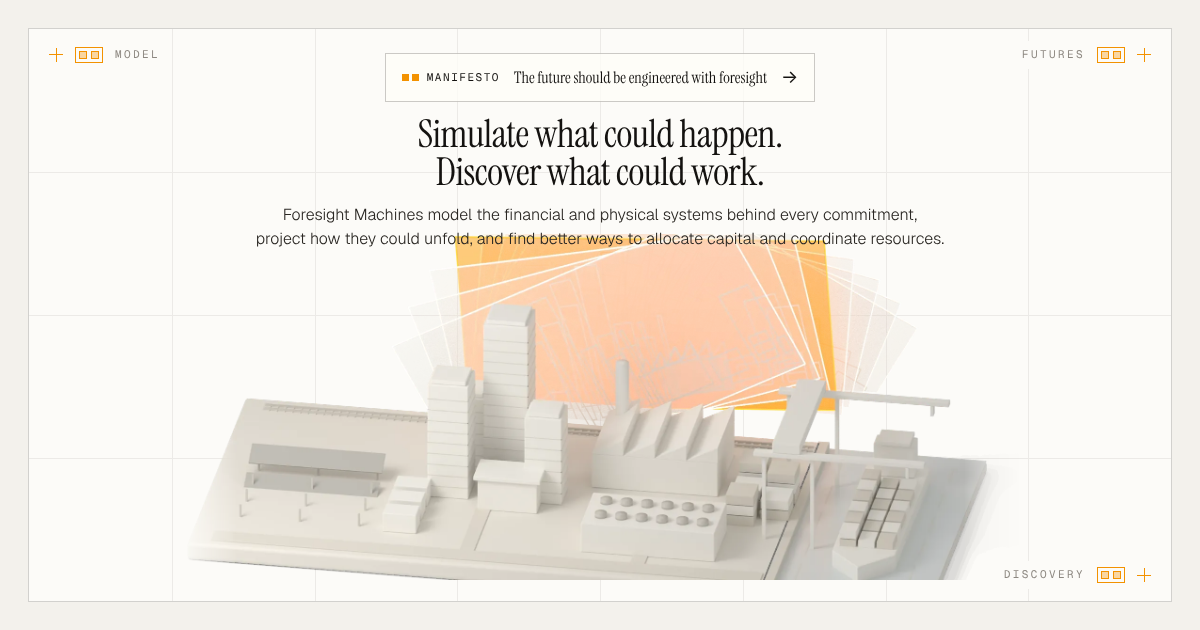
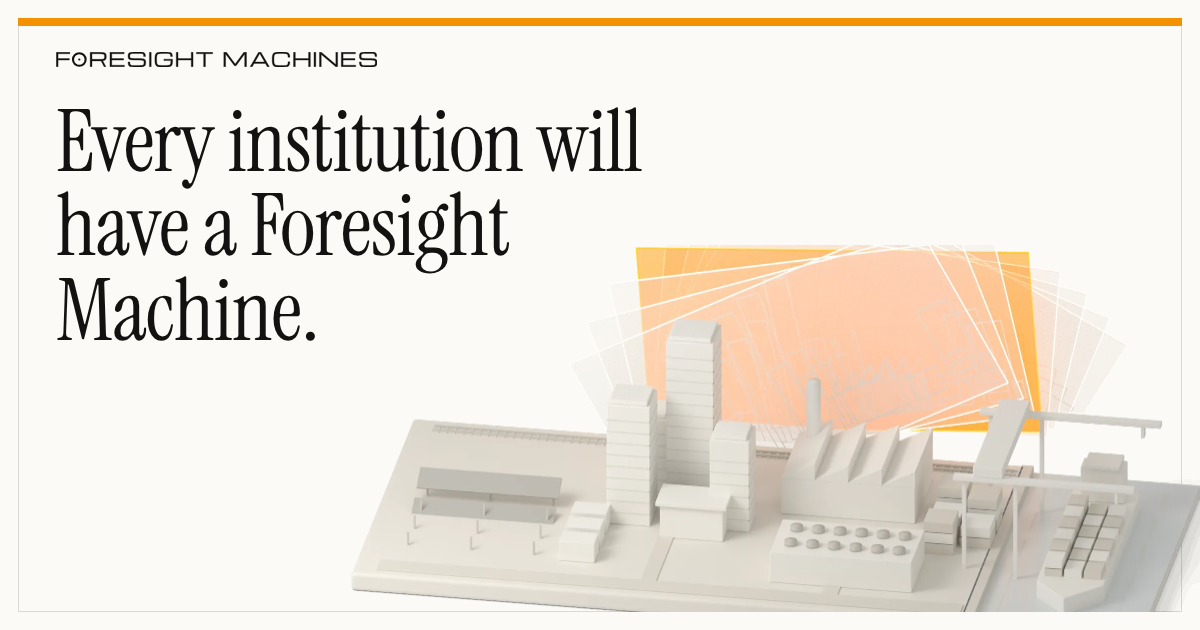
A quieter, more premium page: decoration out, an editorial hero, one idea per section
Decoration: the orange section chips become plain labels; the section
frames and their crosses go; the hero's corner labels carry values
(model v15, futures 1,000, discovery 312) and lose their boxes; the
twin squares stay only in the nav; the window title bars go; the
hero's manifesto chip goes, since the nav links it.

Type: buttons and nav in the sans, sentence case, without the square
glyph; mono kept for data; supporting text in ink, not grey. The hero
is editorial: a large left-aligned headline, the subhead and actions
in a right column, the render below.

Sections: Mission opens with its statement left-aligned and large, and
its figure becomes a line drawing of the argument beside it (history
to today, a forecast, foresight's fan with the plan that holds).
Where we start shows the product window full width and always
finished; the run plays only on Replay. Method reads How a Foresight
Machine reaches an answer, its figure larger. Validation is four
numbered facts beside its heading, then the revision log. The page
closes on the manifesto with a pair of actions. Hover and focus states
are set throughout, and the social card shows the new headline.

Claude-Session: https://claude.ai/code/session_01KJTweMhfZWuWexSYwMJPUu

diff --git a/index.html b/index.html
@@ -24,7 +24,7 @@
     <meta property="og:image" content="https://foresightmachines.com/og.png" />
     <meta property="og:image:width" content="1200" />
     <meta property="og:image:height" content="630" />
-    <meta property="og:image:alt" content="Foresight Machines. Simulate what could happen. Discover what could work." />
+    <meta property="og:image:alt" content="Foresight Machines. Every institution will have a Foresight Machine." />
     <meta name="twitter:card" content="summary_large_image" />
     <meta name="twitter:title" content="Foresight Machines" />
     <meta name="twitter:description" content="A Foresight Machine is an AI system built around one institution. It models how that institution works, simulates every major decision before it is made, finds better options, and learns from each outcome." />
@@ -51,21 +51,20 @@
         </span>
         <a href="#manifesto" data-name="07 · Manifesto" aria-label="07 · Manifesto"></a>
       </nav>
-      <nav class="bar__nav" aria-label="Site"><a href="/journal/the-future-should-be-engineered-with-foresight/">Manifesto</a><a class="bar__cta" href="/discuss/"><i aria-hidden="true"></i>Discuss a decision</a></nav>
+      <nav class="bar__nav" aria-label="Site"><a href="/journal/the-future-should-be-engineered-with-foresight/">Manifesto</a><a class="bar__cta" href="/discuss/">Discuss a decision</a></nav>
     </header>
 
     <section class="hero" id="top">
       <div class="hero__panel" aria-hidden="true">
         <div class="hero__grid"></div>
-        <span class="hero__mark hero__mark--tl" data-mark="model"><i class="hero__cross"></i><b><u></u><u></u></b>Model</span>
-        <span class="hero__mark hero__mark--tr" data-mark="futures">Futures<b><u></u><u></u></b><i class="hero__cross"></i></span>
-        <span class="hero__mark hero__mark--br" data-mark="discovery">Discovery<b><u></u><u></u></b><i class="hero__cross"></i></span>
+        <span class="hero__mark hero__mark--tl" data-mark="model"><i class="hero__cross"></i>Model <em>· v15</em></span>
+        <span class="hero__mark hero__mark--tr" data-mark="futures">Futures <em>· 1,000</em><i class="hero__cross"></i></span>
+        <span class="hero__mark hero__mark--br" data-mark="discovery">Discovery <em>· 312</em><i class="hero__cross"></i></span>
       </div>
       <div class="hero__copy">
-        <a class="hero__dispatch" href="/journal/the-future-should-be-engineered-with-foresight/"><span class="hero__dispatch-k"><span class="bar__squares" aria-hidden="true"><i></i><i></i></span>Manifesto</span><span class="hero__dispatch-t">The future should be engineered with foresight</span><span class="hero__dispatch-a" aria-hidden="true">→</span></a>
         <h1 class="hero__line">Every institution will have a Foresight Machine.</h1>
         <p class="hero__sub">A Foresight Machine is an AI system built around one institution. It models how that institution works, simulates every major decision before it is made, finds better options, and learns from each outcome.</p>
-        <p class="hero__actions"><a class="btn hero__act" href="/discuss/"><i aria-hidden="true"></i>Discuss a decision</a><a class="hero__next" href="#how">See how it works <span aria-hidden="true">↓</span></a></p>
+        <p class="hero__actions"><a class="btn hero__act" href="/discuss/">Discuss a decision</a><a class="hero__next" href="#how">See how it works <span aria-hidden="true">↓</span></a></p>
       </div>
       <div class="hero__model deck" data-deck role="img" aria-label="A small white model of one world on a plate: a coast and a port, towers, a solar field with storage, a factory, a data center, a road and a rail line. Behind it, a fan of frosted slices, each the same world in a slightly different state. One slice glows warm orange: the same world, with one changed connection.">
         <div class="deck__stage" data-deck-stage>
@@ -97,13 +96,12 @@
           <p class="chip">Mission</p>
           <div class="win win--mission">
             <span class="win__br" aria-hidden="true"><i></i><i></i><i></i><i></i></span>
-            <p class="win__bar" aria-hidden="true"><span class="bar__squares" aria-hidden="true"><i></i><i></i></span><span class="win__lamps" aria-hidden="true"><i class="f"></i><i class="f"></i><i class="o"></i></span></p>
             <div class="mw__top">
               
               <h2 class="mw__mission">Make foresight infrastructure for the financial and physical world.</h2>
             </div>
             <div class="mw">
-              <figure class="mw__art mw__art--stack"><img src="/m-system-900.webp" width="900" height="1200" alt="The white world model up close: towers, a factory and a port, joined by faint lines of light. One connection, from the solar field to the port, is lit end to end: the change that makes the system work." loading="lazy" decoding="async" /></figure>
+              <figure class="mw__art mw__art--fig"><svg class="mf" viewBox="0 0 560 720" role="img" aria-label="A line runs from the past up to today. A forecast continues it as one dashed line. Foresight opens it into a fan of possible futures; some end where they break, and one, lit orange, reaches the plan that holds."><path class="mf__rule" d="M24 120H536"/><path class="mf__rule" d="M24 180H536"/><path class="mf__rule" d="M24 240H536"/><path class="mf__rule" d="M24 300H536"/><path class="mf__rule" d="M24 360H536"/><path class="mf__rule" d="M24 420H536"/><path class="mf__rule" d="M24 480H536"/><path class="mf__rule" d="M24 540H536"/><path class="mf__rule" d="M24 600H536"/><path class="mf__today" d="M250 96V640"/><text class="mf__k" x="250" y="84" text-anchor="middle">Today</text><path class="mf__hist" d="M40.0 520.0 L45.2 530.5 L50.5 523.0 L55.8 525.4 L61.0 515.1 L66.2 504.1 L71.5 514.3 L76.8 513.9 L82.0 519.7 L87.2 527.3 L92.5 512.3 L97.8 508.5 L103.0 505.0 L108.2 497.8 L113.5 512.3 L118.8 514.9 L124.0 510.9 L129.2 513.4 L134.5 496.7 L139.8 492.1 L145.0 498.8 L150.2 495.6 L155.5 507.3 L160.8 508.0 L166.0 494.1 L171.2 493.8 L176.5 483.2 L181.8 481.2 L187.0 495.3 L192.2 492.2 L197.5 494.6 L202.8 492.4 L208.0 474.0 L213.2 475.3 L218.5 475.3 L223.8 474.7 L229.0 488.8 L234.2 482.4 L239.5 473.9 L244.8 472.0 L250.0 470.0"/><path class="mf__fut" style="--k:0" d="M250 470C340 420 430 222 520 140"/><path class="mf__fut" style="--k:1" d="M250 470C340 425 430 244 520 169"/><path class="mf__fut mf__fut--lit" style="--k:2" d="M250 470C340 429 430 266 520 198"/><circle class="mf__end" cx="520" cy="198" r="6"/><text class="mf__k mf__k--lit" x="520" y="180" text-anchor="end">The plan that holds</text><path class="mf__fut" style="--k:3" d="M250 470C340 434 430 288 520 227"/><path class="mf__fut" style="--k:4" d="M250 470C340 438 430 310 520 256"/><path class="mf__fut" style="--k:5" d="M250 470C340 442 430 331 405 358"/><path class="mf__x" d="M400 353l10 10m0 -10l-10 10"/><path class="mf__fut" style="--k:6" d="M250 470C340 447 430 353 520 314"/><path class="mf__fut" style="--k:7" d="M250 470C340 451 430 375 520 343"/><path class="mf__fut" style="--k:8" d="M250 470C340 455 430 396 520 372"/><path class="mf__fut" style="--k:9" d="M250 470C340 460 430 418 403 429"/><path class="mf__x" d="M398 424l10 10m0 -10l-10 10"/><path class="mf__fut" style="--k:10" d="M250 470C340 464 430 440 520 430"/><path class="mf__fut" style="--k:11" d="M250 470C340 468 430 462 520 459"/><path class="mf__fut" style="--k:12" d="M250 470C340 473 430 484 514 488"/><path class="mf__x" d="M509 483l10 10m0 -10l-10 10"/><path class="mf__fut" style="--k:13" d="M250 470C340 477 430 505 520 517"/><path class="mf__fut" style="--k:14" d="M250 470C340 481 430 527 520 546"/><path class="mf__fut" style="--k:15" d="M250 470C340 486 430 549 475 559"/><path class="mf__x" d="M470 554l10 10m0 -10l-10 10"/><path class="mf__fut" style="--k:16" d="M250 470C340 490 430 570 520 604"/><path class="mf__fc" d="M250 470C350 456 450 440 520 426"/><text class="mf__k" x="520" y="412" text-anchor="end">Forecast</text><text class="mf__k mf__k--dim" x="40" y="560">History</text><circle class="mf__now" cx="250" cy="470" r="5"/></svg></figure>
               <div class="mw__text">
                 <h3 class="mw__h">There’s forecasting, and there’s foresight.</h3>
                 <div class="prose">
@@ -117,7 +115,7 @@
             </div>
           </div>
 
-          <div class="ct" aria-label="What kind of thing this is"><ol class="ct__cells"><li class="ct__c"><span class="ct__br" aria-hidden="true"><i></i><i></i><i></i><i></i></span><p class="ct__k">Dashboards</p><p class="ct__a">Show what happened.</p><p class="ct__b">You read them.</p></li><li class="ct__c"><span class="ct__br" aria-hidden="true"><i></i><i></i><i></i><i></i></span><p class="ct__k">Forecasts</p><p class="ct__a">Estimate what is likely.</p><p class="ct__b">You interpret them.</p></li><li class="ct__c is-ours"><span class="ct__br" aria-hidden="true"><i></i><i></i><i></i><i></i></span><p class="ct__k"><span class="bar__squares" aria-hidden="true"><i></i><i></i></span>Foresight Machines</p><p class="ct__a">Find the plan that holds.</p><p class="ct__b">You set the goal and decide.</p></li></ol><div class="ct__bar" aria-hidden="true"><i></i><i></i><i class="is-ours"></i></div></div>
+          <div class="ct" aria-label="What kind of thing this is"><ol class="ct__cells"><li class="ct__c"><span class="ct__br" aria-hidden="true"><i></i><i></i><i></i><i></i></span><p class="ct__k">Dashboards</p><p class="ct__a">Show what happened.</p><p class="ct__b">You read them.</p></li><li class="ct__c"><span class="ct__br" aria-hidden="true"><i></i><i></i><i></i><i></i></span><p class="ct__k">Forecasts</p><p class="ct__a">Estimate what is likely.</p><p class="ct__b">You interpret them.</p></li><li class="ct__c is-ours"><span class="ct__br" aria-hidden="true"><i></i><i></i><i></i><i></i></span><p class="ct__k">Foresight Machines</p><p class="ct__a">Find the plan that holds.</p><p class="ct__b">You set the goal and decide.</p></li></ol><div class="ct__bar" aria-hidden="true"><i></i><i></i><i class="is-ours"></i></div></div>
         </div>
       </section>
 
@@ -131,7 +129,7 @@
               <p class="lead">To pay anyone, at any hour, through any partner. A Foresight Machine models everything behind that promise, from reserves and banks to partners and rules, and works out what it would take to make a bigger one.</p>
             </header>
             <div class="ws" data-ws data-progress="[&quot;Building the model.&quot;, &quot;So far: the reserves are large enough. The risk is the route, through bank B.&quot;, &quot;So far: the launch as drafted holds in 73% of fast-adoption futures.&quot;, &quot;So far: one arrangement holds in every future. Checking it against the rules.&quot;]">
-              <div class="ws-top"><span class="ws-brand"><span class="bar__squares" aria-hidden="true"><i></i><i></i></span><svg class="wm wm--svg" viewBox="-2 -2 2228.3 104" aria-hidden="true" focusable="false"><path d="M0 100V0H94.3V10.4H12.5V43.7H90.6V54.2H12.5V100ZM234.9 0H301.9Q316.5 0 325.5 1.3Q334.4 2.6 339 5.8Q343.7 9 345.3 14.5Q346.9 20.1 346.9 28.5V31.1Q346.9 38.9 345.1 44.6Q343.2 50.2 337.9 53.7Q332.7 57.2 322.3 58.6L344.1 100H331.6L310.3 59.5Q309 59.6 307.6 59.6Q306.2 59.6 304.7 59.6H247.4V100H234.9ZM247.4 48.8H302.7Q313.8 48.8 320.3 48Q326.7 47.3 329.7 45.4Q332.7 43.5 333.6 40Q334.4 36.6 334.4 31.1V28.5Q334.4 22.3 333.2 18.7Q332.1 15.2 328.6 13.5Q325 11.8 318.1 11.3Q311.1 10.8 299.5 10.8H247.4ZM372.2 100V0H470.4V10.4H384.8V43.7H466.8V54.2H384.8V89.6H472.2V100ZM607.9 71.1Q607.9 65.3 607 62Q606 58.7 602.9 57.1Q599.7 55.5 593 55Q586.3 54.5 574.6 54.3L538.4 53.8Q525 53.6 516.9 52.1Q508.7 50.7 504.5 47.6Q500.4 44.5 499 39.3Q497.6 34.1 497.6 26.3Q497.6 17.8 499.5 12.2Q501.4 6.7 506.5 3.6Q511.5 0.5 520.8 -0.8Q530 -2.1 544.7 -2.1H572.5Q585.8 -2.1 594.7 -1.2Q603.5 -0.4 608.7 2.7Q613.9 5.7 616.2 12.2Q618.4 18.6 618.4 29.9H605.9Q605.9 21.2 604.3 16.7Q602.6 12.2 598.8 10.6Q595 9 588.5 8.9Q582.1 8.7 572.5 8.7H545.3Q533.7 8.7 526.7 9.2Q519.7 9.6 516.1 11.3Q512.5 12.9 511.3 16.5Q510.1 20.1 510.1 26.3Q510.1 31.6 510.9 34.8Q511.8 38 514.7 39.6Q517.7 41.3 523.9 41.9Q530.1 42.5 540.7 42.6L579.5 43.2Q593.2 43.4 601.4 44.8Q609.6 46.2 613.6 49.3Q617.7 52.4 619 57.7Q620.4 63 620.4 71.1Q620.4 79.9 618.7 85.8Q617 91.8 612.3 95.4Q607.5 99 598.6 100.5Q589.6 102.1 574.9 102.1H544.5Q531.1 102.1 522.1 100.9Q513 99.7 507.6 96.2Q502.3 92.6 499.9 85.6Q497.6 78.6 497.6 66.9H510.1Q510.1 76 511.6 81.1Q513.1 86.1 516.8 88.2Q520.6 90.4 527.3 90.9Q534 91.3 544.5 91.3H574.3Q585.9 91.3 592.7 90.5Q599.5 89.8 602.7 87.7Q606 85.5 606.9 81.6Q607.9 77.6 607.9 71.1ZM645.7 100V0H658.2V100ZM683.5 51.3V48.7Q683.5 35.4 684.8 26.4Q686.1 17.4 689.3 11.7Q692.5 6.1 698 3.1Q703.5 0.1 711.9 -1Q720.2 -2.1 731.9 -2.1H756.4Q771.8 -2.1 781.4 -0.9Q791 0.3 796.1 3.6Q801.3 6.9 803.3 13.2Q805.2 19.6 805.2 29.9H792.7Q792.7 22.1 791.3 17.8Q790 13.5 786.2 11.6Q782.4 9.6 775.2 9.2Q768 8.7 756.4 8.7H731.9Q722.6 8.7 716.2 9.3Q709.8 9.8 705.8 11.8Q701.8 13.8 699.7 18.1Q697.6 22.4 696.8 29.8Q696 37.2 696 48.7V51.3Q696 62.4 696.8 69.7Q697.6 77 699.7 81.3Q701.8 85.7 705.8 87.8Q709.8 90 716.2 90.6Q722.6 91.3 731.9 91.3H760.8Q771.5 91.3 778.1 90.4Q784.6 89.5 788.1 86.6Q791.5 83.7 792.7 77.8Q793.8 71.8 793.8 61.7V57.8H746V47.4H806.3V61.7Q806.3 74.3 804.2 82.3Q802 90.2 796.9 94.6Q791.8 98.9 783 100.5Q774.2 102.1 760.8 102.1H731.9Q717.3 102.1 707.8 100.1Q698.4 98.1 693.1 92.8Q687.8 87.4 685.7 77.4Q683.5 67.4 683.5 51.3ZM831.7 100V0H844.2V43.7H935.8V0H948.3V100H935.8V54.2H844.2V100ZM1021.7 100V10.4H971.7V0H1084.2V10.4H1034.2V100ZM1161.5 100V0H1180.1L1240.6 81.6L1300.2 0H1318.8V100H1306.3V11.3L1246.6 93.4H1235.3L1174 11.3V100ZM1344.1 100 1402.4 0H1419.1L1477.4 100H1462.9L1450.4 77.1H1371.2L1358.7 100ZM1377.4 66.7H1444.1L1410.8 8.3ZM1496.8 51.3V48.7Q1496.8 35.4 1498.1 26.4Q1499.4 17.4 1502.6 11.7Q1505.8 6.1 1511.3 3.1Q1516.8 0.1 1525.1 -1Q1533.4 -2.1 1545.2 -2.1H1571.4Q1584.8 -2.1 1594 -0.8Q1603.2 0.5 1608.9 4.2Q1614.5 7.9 1617 15.2Q1619.6 22.5 1619.6 34.4H1607.1Q1607.1 25 1605.4 19.8Q1603.7 14.5 1599.7 12.2Q1595.7 9.8 1588.8 9.3Q1581.9 8.7 1571.4 8.7H1545.2Q1535.8 8.7 1529.5 9.3Q1523.1 9.8 1519.1 11.8Q1515.1 13.8 1513 18.1Q1510.8 22.4 1510.1 29.8Q1509.3 37.2 1509.3 48.7V51.3Q1509.3 62.4 1510.1 69.7Q1510.8 77 1513 81.3Q1515.1 85.7 1519.1 87.8Q1523.1 90 1529.5 90.6Q1535.8 91.3 1545.2 91.3H1571.4Q1581.9 91.3 1588.8 90.8Q1595.7 90.4 1599.7 88.2Q1603.7 85.9 1605.4 80.8Q1607.1 75.6 1607.1 66.2H1619.6Q1619.6 78.2 1617 85.4Q1614.5 92.5 1608.9 96.1Q1603.2 99.7 1594 100.9Q1584.8 102.1 1571.4 102.1H1545.2Q1530.5 102.1 1521.1 100.1Q1511.6 98.1 1506.3 92.8Q1501 87.4 1498.9 77.4Q1496.8 67.4 1496.8 51.3ZM1644.9 100V0H1657.4V43.7H1749.1V0H1761.6V100H1749.1V54.2H1657.4V100ZM1786.9 100V0H1799.4V100ZM1824.7 100V0H1837.8L1938.2 84.6H1938.3V0H1950.8V100H1937.8L1837.4 14.7H1837.2V100ZM1976.2 100V0H2074.4V10.4H1988.7V43.7H2070.8V54.2H1988.7V89.6H2076.2V100ZM2211.8 71.1Q2211.8 65.3 2210.9 62Q2210 58.7 2206.8 57.1Q2203.6 55.5 2196.9 55Q2190.2 54.5 2178.5 54.3L2142.3 53.8Q2128.9 53.6 2120.8 52.1Q2112.6 50.7 2108.5 47.6Q2104.3 44.5 2102.9 39.3Q2101.5 34.1 2101.5 26.3Q2101.5 17.8 2103.4 12.2Q2105.3 6.7 2110.4 3.6Q2115.4 0.5 2124.7 -0.8Q2133.9 -2.1 2148.6 -2.1H2176.4Q2189.7 -2.1 2198.6 -1.2Q2207.4 -0.4 2212.6 2.7Q2217.8 5.7 2220.1 12.2Q2222.3 18.6 2222.3 29.9H2209.8Q2209.8 21.2 2208.2 16.7Q2206.5 12.2 2202.7 10.6Q2198.9 9 2192.5 8.9Q2186 8.7 2176.4 8.7H2149.2Q2137.6 8.7 2130.6 9.2Q2123.6 9.6 2120 11.3Q2116.4 12.9 2115.2 16.5Q2114 20.1 2114 26.3Q2114 31.6 2114.9 34.8Q2115.7 38 2118.7 39.6Q2121.6 41.3 2127.8 41.9Q2134 42.5 2144.7 42.6L2183.5 43.2Q2197.1 43.4 2205.3 44.8Q2213.5 46.2 2217.6 49.3Q2221.6 52.4 2223 57.7Q2224.3 63 2224.3 71.1Q2224.3 79.9 2222.6 85.8Q2221 91.8 2216.2 95.4Q2211.5 99 2202.5 100.5Q2193.5 102.1 2178.9 102.1H2148.4Q2135 102.1 2126 100.9Q2116.9 99.7 2111.6 96.2Q2106.2 92.6 2103.9 85.6Q2101.5 78.6 2101.5 66.9H2114Q2114 76 2115.5 81.1Q2117 86.1 2120.7 88.2Q2124.5 90.4 2131.2 90.9Q2138 91.3 2148.4 91.3H2178.2Q2189.9 91.3 2196.6 90.5Q2203.4 89.8 2206.7 87.7Q2209.9 85.5 2210.9 81.6Q2211.8 77.6 2211.8 71.1Z" fill="currentColor" stroke="currentColor" stroke-width="2.2" stroke-linejoin="round"/><circle cx="159.6" cy="50" r="43.75" fill="none" stroke="currentColor" stroke-width="14.70"/><circle cx="159.6" cy="50" r="7.75" fill="currentColor"/></svg></span><span class="ws-crumbs">Dollar issuer · <b>Treasury</b></span><span class="ws-ver">Model v15 · updated 2 hours ago</span><span class="ws-av" aria-hidden="true">MM</span></div>
+              <div class="ws-top"><span class="ws-brand"><svg class="wm wm--svg" viewBox="-2 -2 2228.3 104" aria-hidden="true" focusable="false"><path d="M0 100V0H94.3V10.4H12.5V43.7H90.6V54.2H12.5V100ZM234.9 0H301.9Q316.5 0 325.5 1.3Q334.4 2.6 339 5.8Q343.7 9 345.3 14.5Q346.9 20.1 346.9 28.5V31.1Q346.9 38.9 345.1 44.6Q343.2 50.2 337.9 53.7Q332.7 57.2 322.3 58.6L344.1 100H331.6L310.3 59.5Q309 59.6 307.6 59.6Q306.2 59.6 304.7 59.6H247.4V100H234.9ZM247.4 48.8H302.7Q313.8 48.8 320.3 48Q326.7 47.3 329.7 45.4Q332.7 43.5 333.6 40Q334.4 36.6 334.4 31.1V28.5Q334.4 22.3 333.2 18.7Q332.1 15.2 328.6 13.5Q325 11.8 318.1 11.3Q311.1 10.8 299.5 10.8H247.4ZM372.2 100V0H470.4V10.4H384.8V43.7H466.8V54.2H384.8V89.6H472.2V100ZM607.9 71.1Q607.9 65.3 607 62Q606 58.7 602.9 57.1Q599.7 55.5 593 55Q586.3 54.5 574.6 54.3L538.4 53.8Q525 53.6 516.9 52.1Q508.7 50.7 504.5 47.6Q500.4 44.5 499 39.3Q497.6 34.1 497.6 26.3Q497.6 17.8 499.5 12.2Q501.4 6.7 506.5 3.6Q511.5 0.5 520.8 -0.8Q530 -2.1 544.7 -2.1H572.5Q585.8 -2.1 594.7 -1.2Q603.5 -0.4 608.7 2.7Q613.9 5.7 616.2 12.2Q618.4 18.6 618.4 29.9H605.9Q605.9 21.2 604.3 16.7Q602.6 12.2 598.8 10.6Q595 9 588.5 8.9Q582.1 8.7 572.5 8.7H545.3Q533.7 8.7 526.7 9.2Q519.7 9.6 516.1 11.3Q512.5 12.9 511.3 16.5Q510.1 20.1 510.1 26.3Q510.1 31.6 510.9 34.8Q511.8 38 514.7 39.6Q517.7 41.3 523.9 41.9Q530.1 42.5 540.7 42.6L579.5 43.2Q593.2 43.4 601.4 44.8Q609.6 46.2 613.6 49.3Q617.7 52.4 619 57.7Q620.4 63 620.4 71.1Q620.4 79.9 618.7 85.8Q617 91.8 612.3 95.4Q607.5 99 598.6 100.5Q589.6 102.1 574.9 102.1H544.5Q531.1 102.1 522.1 100.9Q513 99.7 507.6 96.2Q502.3 92.6 499.9 85.6Q497.6 78.6 497.6 66.9H510.1Q510.1 76 511.6 81.1Q513.1 86.1 516.8 88.2Q520.6 90.4 527.3 90.9Q534 91.3 544.5 91.3H574.3Q585.9 91.3 592.7 90.5Q599.5 89.8 602.7 87.7Q606 85.5 606.9 81.6Q607.9 77.6 607.9 71.1ZM645.7 100V0H658.2V100ZM683.5 51.3V48.7Q683.5 35.4 684.8 26.4Q686.1 17.4 689.3 11.7Q692.5 6.1 698 3.1Q703.5 0.1 711.9 -1Q720.2 -2.1 731.9 -2.1H756.4Q771.8 -2.1 781.4 -0.9Q791 0.3 796.1 3.6Q801.3 6.9 803.3 13.2Q805.2 19.6 805.2 29.9H792.7Q792.7 22.1 791.3 17.8Q790 13.5 786.2 11.6Q782.4 9.6 775.2 9.2Q768 8.7 756.4 8.7H731.9Q722.6 8.7 716.2 9.3Q709.8 9.8 705.8 11.8Q701.8 13.8 699.7 18.1Q697.6 22.4 696.8 29.8Q696 37.2 696 48.7V51.3Q696 62.4 696.8 69.7Q697.6 77 699.7 81.3Q701.8 85.7 705.8 87.8Q709.8 90 716.2 90.6Q722.6 91.3 731.9 91.3H760.8Q771.5 91.3 778.1 90.4Q784.6 89.5 788.1 86.6Q791.5 83.7 792.7 77.8Q793.8 71.8 793.8 61.7V57.8H746V47.4H806.3V61.7Q806.3 74.3 804.2 82.3Q802 90.2 796.9 94.6Q791.8 98.9 783 100.5Q774.2 102.1 760.8 102.1H731.9Q717.3 102.1 707.8 100.1Q698.4 98.1 693.1 92.8Q687.8 87.4 685.7 77.4Q683.5 67.4 683.5 51.3ZM831.7 100V0H844.2V43.7H935.8V0H948.3V100H935.8V54.2H844.2V100ZM1021.7 100V10.4H971.7V0H1084.2V10.4H1034.2V100ZM1161.5 100V0H1180.1L1240.6 81.6L1300.2 0H1318.8V100H1306.3V11.3L1246.6 93.4H1235.3L1174 11.3V100ZM1344.1 100 1402.4 0H1419.1L1477.4 100H1462.9L1450.4 77.1H1371.2L1358.7 100ZM1377.4 66.7H1444.1L1410.8 8.3ZM1496.8 51.3V48.7Q1496.8 35.4 1498.1 26.4Q1499.4 17.4 1502.6 11.7Q1505.8 6.1 1511.3 3.1Q1516.8 0.1 1525.1 -1Q1533.4 -2.1 1545.2 -2.1H1571.4Q1584.8 -2.1 1594 -0.8Q1603.2 0.5 1608.9 4.2Q1614.5 7.9 1617 15.2Q1619.6 22.5 1619.6 34.4H1607.1Q1607.1 25 1605.4 19.8Q1603.7 14.5 1599.7 12.2Q1595.7 9.8 1588.8 9.3Q1581.9 8.7 1571.4 8.7H1545.2Q1535.8 8.7 1529.5 9.3Q1523.1 9.8 1519.1 11.8Q1515.1 13.8 1513 18.1Q1510.8 22.4 1510.1 29.8Q1509.3 37.2 1509.3 48.7V51.3Q1509.3 62.4 1510.1 69.7Q1510.8 77 1513 81.3Q1515.1 85.7 1519.1 87.8Q1523.1 90 1529.5 90.6Q1535.8 91.3 1545.2 91.3H1571.4Q1581.9 91.3 1588.8 90.8Q1595.7 90.4 1599.7 88.2Q1603.7 85.9 1605.4 80.8Q1607.1 75.6 1607.1 66.2H1619.6Q1619.6 78.2 1617 85.4Q1614.5 92.5 1608.9 96.1Q1603.2 99.7 1594 100.9Q1584.8 102.1 1571.4 102.1H1545.2Q1530.5 102.1 1521.1 100.1Q1511.6 98.1 1506.3 92.8Q1501 87.4 1498.9 77.4Q1496.8 67.4 1496.8 51.3ZM1644.9 100V0H1657.4V43.7H1749.1V0H1761.6V100H1749.1V54.2H1657.4V100ZM1786.9 100V0H1799.4V100ZM1824.7 100V0H1837.8L1938.2 84.6H1938.3V0H1950.8V100H1937.8L1837.4 14.7H1837.2V100ZM1976.2 100V0H2074.4V10.4H1988.7V43.7H2070.8V54.2H1988.7V89.6H2076.2V100ZM2211.8 71.1Q2211.8 65.3 2210.9 62Q2210 58.7 2206.8 57.1Q2203.6 55.5 2196.9 55Q2190.2 54.5 2178.5 54.3L2142.3 53.8Q2128.9 53.6 2120.8 52.1Q2112.6 50.7 2108.5 47.6Q2104.3 44.5 2102.9 39.3Q2101.5 34.1 2101.5 26.3Q2101.5 17.8 2103.4 12.2Q2105.3 6.7 2110.4 3.6Q2115.4 0.5 2124.7 -0.8Q2133.9 -2.1 2148.6 -2.1H2176.4Q2189.7 -2.1 2198.6 -1.2Q2207.4 -0.4 2212.6 2.7Q2217.8 5.7 2220.1 12.2Q2222.3 18.6 2222.3 29.9H2209.8Q2209.8 21.2 2208.2 16.7Q2206.5 12.2 2202.7 10.6Q2198.9 9 2192.5 8.9Q2186 8.7 2176.4 8.7H2149.2Q2137.6 8.7 2130.6 9.2Q2123.6 9.6 2120 11.3Q2116.4 12.9 2115.2 16.5Q2114 20.1 2114 26.3Q2114 31.6 2114.9 34.8Q2115.7 38 2118.7 39.6Q2121.6 41.3 2127.8 41.9Q2134 42.5 2144.7 42.6L2183.5 43.2Q2197.1 43.4 2205.3 44.8Q2213.5 46.2 2217.6 49.3Q2221.6 52.4 2223 57.7Q2224.3 63 2224.3 71.1Q2224.3 79.9 2222.6 85.8Q2221 91.8 2216.2 95.4Q2211.5 99 2202.5 100.5Q2193.5 102.1 2178.9 102.1H2148.4Q2135 102.1 2126 100.9Q2116.9 99.7 2111.6 96.2Q2106.2 92.6 2103.9 85.6Q2101.5 78.6 2101.5 66.9H2114Q2114 76 2115.5 81.1Q2117 86.1 2120.7 88.2Q2124.5 90.4 2131.2 90.9Q2138 91.3 2148.4 91.3H2178.2Q2189.9 91.3 2196.6 90.5Q2203.4 89.8 2206.7 87.7Q2209.9 85.5 2210.9 81.6Q2211.8 77.6 2211.8 71.1Z" fill="currentColor" stroke="currentColor" stroke-width="2.2" stroke-linejoin="round"/><circle cx="159.6" cy="50" r="43.75" fill="none" stroke="currentColor" stroke-width="14.70"/><circle cx="159.6" cy="50" r="7.75" fill="currentColor"/></svg></span><span class="ws-crumbs">Dollar issuer · <b>Treasury</b></span><span class="ws-ver">Model v15 · updated 2 hours ago</span><span class="ws-av" aria-hidden="true">MM</span></div>
               <div class="ws-body">
                 <aside class="ws-left">
                   <label class="ws-pick"><span class="ws-lab">Decision</span><select data-pick aria-label="Decision"><option value="instant-redemption">Instant redemption for a new payments partner</option><option value="reserve-mix">Reserve mix review</option><option value="bank-b-renewal">Bank B renewal</option><option value="wallet-payouts">Wallet payouts in two new markets</option></select></label>
@@ -223,7 +221,7 @@
           <p class="chip">Method</p>
           <section class="blk">
             <header class="blk__head2">
-              <h2 class="h2">A model to explore with. A record to improve from.</h2>
+              <h2 class="h2">How a Foresight Machine reaches an answer.</h2>
             </header>
             <figure class="lp" data-film>
               <div class="lp__stage">
@@ -244,11 +242,14 @@
         <span class="band__frame" aria-hidden="true"><i></i><i></i><i></i><i></i></span>
         <div class="wrap">
           <p class="chip">Validation</p>
-          <header class="jhead trust__head va__head">
-            <h2 class="h2">Models earn trust against reality.</h2>
-            <p class="lead">Each institution gets its own Foresight Machine. Its model, its records and what it learns stay its own, and every outcome makes the next model better.</p>
-          </header>
-          <div class="vx"><span class="vx__x" aria-hidden="true"><i></i><i></i><i></i><i></i></span><ol class="vx__cols"><li class="vx__c"><p class="vx__lamps" aria-hidden="true"><i class="on"></i><i></i><i></i><i></i></p><p class="vx__k"><span>01</span>Evidence</p><h3 class="vx__t">Built from evidence.</h3><p class="vx__b">Every rule traces to a record, a contract or an observation.</p></li><li class="vx__c"><p class="vx__lamps" aria-hidden="true"><i class="on"></i><i class="on"></i><i></i><i></i></p><p class="vx__k"><span>02</span>Baseline</p><h3 class="vx__t">Tested against alternatives.</h3><p class="vx__b">Every recommendation is compared with current practice, under the same rules.</p></li><li class="vx__c"><p class="vx__lamps" aria-hidden="true"><i class="on"></i><i class="on"></i><i class="on"></i><i></i></p><p class="vx__k"><span>03</span>Record</p><h3 class="vx__t">Recorded before the fact.</h3><p class="vx__b">Every expectation is written down before the outcome is known.</p></li><li class="vx__c"><p class="vx__lamps" aria-hidden="true"><i class="on"></i><i class="on"></i><i class="on"></i><i class="on"></i></p><p class="vx__k"><span>04</span>Revision</p><h3 class="vx__t">Corrected by outcomes.</h3><p class="vx__b">A change to the model is used only if it improves past cases and breaks none.</p></li></ol><dl class="vx__log"><div class="vx__f vx__f--rev"><dt>Revision</dt><dd>Model v14 <span aria-hidden="true">→</span> v15</dd></div><div class="vx__f"><dt>What changed</dt><dd>New merchants’ redemptions, re-estimated from 90 days of their own activity</dd></div><div class="vx__f"><dt>Tested on</dt><dd>78 past weeks · 11 closer to the record · 0 further</dd></div><div class="vx__f"><dt>By</dt><dd>The machine proposed it · Treasury approved it</dd></div><div class="vx__f vx__f--st"><dt class="sr-only">Status</dt><dd><i aria-hidden="true"></i>Promoted</dd></div></dl></div>
+          <div class="vn">
+            <header class="vn__head">
+              <h2 class="h2">Every answer is written down before the outcome, then scored.</h2>
+              <p class="lead">Each institution gets its own Foresight Machine. Its model, its records and what it learns stay its own, and every outcome makes the next model better.</p>
+            </header>
+            <ol class="vn__list"><li class="vn__r"><span class="vn__n">01</span><p class="vn__t">Every rule in the model points to a contract, record or observation.</p></li><li class="vn__r"><span class="vn__n">02</span><p class="vn__t">Every recommendation is compared with what the team does today, under the same rules.</p></li><li class="vn__r"><span class="vn__n">03</span><p class="vn__t">Every expectation is timestamped before the outcome.</p></li><li class="vn__r"><span class="vn__n">04</span><p class="vn__t">A model change is kept only if it does better on past cases and worse on none.</p></li></ol>
+          </div>
+          <dl class="vx__log"><div class="vx__f vx__f--rev"><dt>Revision</dt><dd>Model v14 <span aria-hidden="true">→</span> v15</dd></div><div class="vx__f"><dt>What changed</dt><dd>New merchants’ redemptions, re-estimated from 90 days of their own activity</dd></div><div class="vx__f"><dt>Tested on</dt><dd>78 past weeks · 11 closer to the record · 0 further</dd></div><div class="vx__f"><dt>By</dt><dd>The machine proposed it · Treasury approved it</dd></div><div class="vx__f vx__f--st"><dt class="sr-only">Status</dt><dd><i aria-hidden="true"></i>Promoted</dd></div></dl>
         </div>
       </section>
 
@@ -258,12 +259,11 @@
           <p class="chip">Manifesto</p>
           <div class="win win--feature">
             <span class="win__br" aria-hidden="true"><i></i><i></i><i></i><i></i></span>
-            <p class="win__bar" aria-hidden="true"><span class="bar__squares" aria-hidden="true"><i></i><i></i></span><span class="win__lamps" aria-hidden="true"><i class="f"></i><i class="f"></i><i class="o"></i></span></p>
             <div class="feat">
               <h2 class="feat__title">The future should be engineered with foresight.</h2>
               <p class="feat__lede">Humanity has built extraordinary systems for recording the past and managing the present.</p>
               <blockquote class="feat__pull"><p>We are not building an oracle. We are building machinery for better judgment.</p></blockquote>
-              <p class="feat__meta"><a class="feat__read" data-jlink href="/journal/the-future-should-be-engineered-with-foresight/">Read the manifesto <span aria-hidden="true">→</span></a></p>
+              <p class="feat__actions"><a class="btn" data-jlink href="/journal/the-future-should-be-engineered-with-foresight/">Read the manifesto</a><a class="feat__alt" href="/discuss/">Discuss a decision <span aria-hidden="true">→</span></a></p>
             </div>
           </div>
         </div>

diff --git a/src/styles/r8.css b/src/styles/r8.css
@@ -1,0 +1,114 @@
+/* ==========================================================================
+   November 10: one strong idea per screen, restraint everywhere else.
+   Decoration out, a wider type scale, mono only for data, a distinct layout
+   per section, a quiet close.
+   ========================================================================== */
+
+/* --- decoration out ------------------------------------------------------------------- */
+.band > .band__frame { display: none; }
+.chip { justify-self: start !important; padding: 0 !important; margin: 0 0 18px !important; background: none !important; font-family: var(--sans) !important; font-size: 15px !important; font-weight: 500 !important; letter-spacing: 0 !important; text-transform: none !important; color: var(--ink-3) !important; }
+.band--ink .chip { color: rgba(244, 239, 230, 0.6) !important; }
+.hero__mark em { font-style: normal; color: var(--ink); }
+
+/* --- type: a wider scale, body in ink ------------------------------------------------- */
+.lead { font-weight: 400 !important; color: rgba(20, 18, 16, 0.85) !important; }
+.band--ink .lead { color: rgba(244, 239, 230, 0.8) !important; }
+.prose p, .mw__text .prose p { font-size: 17px !important; color: rgba(20, 18, 16, 0.85); }
+
+/* --- buttons and nav in the sans; mono is for data -------------------------------------- */
+.btn, .hero__act, .hero__next, .bar__nav a, .bar__cta, .feat__alt { font-family: var(--sans) !important; font-size: 15px !important; font-weight: 500 !important; letter-spacing: 0 !important; text-transform: none !important; }
+.btn i, .bar__cta i, .hero__act i { display: none !important; }
+.btn, .hero__act { padding: 15px 26px !important; transition: background-color 0.15s ease-out, color 0.15s ease-out, border-color 0.15s ease-out; }
+.btn:hover, .hero__act:hover { background: var(--ink) !important; border-color: var(--ink) !important; color: #fbfaf6 !important; }
+.hero__next, .feat__alt { transition: color 0.15s ease-out, border-color 0.15s ease-out; }
+.hero__next:hover, .feat__alt:hover { color: var(--amber-deep, #b86a00) !important; }
+.bar__nav a { transition: opacity 0.15s ease-out; }
+.bar__nav a:hover { opacity: 0.7; }
+:where(a, button, select, input, [tabindex]):focus-visible { outline: 2px solid #f39200 !important; outline-offset: 2px !important; }
+
+/* --- hero: an editorial layout ------------------------------------------------------------- */
+@media (min-width: 1024px) {
+  .hero { display: grid !important; grid-template-columns: minmax(0, 1fr) clamp(320px, 26vw, 420px); grid-template-rows: auto minmax(0, 1fr) auto; column-gap: clamp(32px, 4vw, 72px); align-items: stretch; padding-top: calc(var(--ht) + clamp(40px, 6svh, 64px)) !important; justify-items: stretch; text-align: left !important; }
+  .hero__copy { display: contents !important; }
+  .hero__copy::before { content: none !important; }
+  .hero .hero__line, .hero .hero__sub, .hero .hero__actions { position: relative; z-index: 2; }
+  .hero .hero__line { grid-column: 1 / -1; grid-row: 1; max-width: 21ch; margin: 0 !important; font-size: min(5.8vw, 10.6svh, 104px) !important; line-height: 0.98 !important; letter-spacing: -0.01em; text-align: left; }
+  .hero .hero__sub { grid-column: 2; grid-row: 2; align-self: end; max-width: none !important; margin: 0 !important; font-size: 18px !important; line-height: 1.5 !important; color: rgba(20, 18, 16, 0.85) !important; text-align: left; }
+  .hero .hero__actions { grid-column: 2; grid-row: 3; justify-content: flex-start !important; margin: 24px 0 34px !important; }
+  .hero .hero__model.deck { grid-column: 1; grid-row: 2 / 4; margin: 16px 0 0 !important; min-height: 0; }
+}
+@media (max-width: 1023px) {
+  .hero .hero__line { font-size: clamp(40px, 9vw, 64px) !important; }
+}
+
+/* --- mission: a full-width statement; the argument offset right -------------------------- */
+.mw__top { text-align: left !important; place-items: start !important; justify-items: start !important; padding: clamp(32px, 5vh, 56px) clamp(28px, 4vw, 56px) !important; }
+.mw__mission { max-width: 23ch !important; margin: 0 !important; font-size: clamp(44px, 4.6vw, 76px) !important; line-height: 1 !important; text-align: left; }
+.mw__art--fig { display: grid; place-items: center; margin: 0; padding: clamp(12px, 1.6vw, 24px); background: #fdfcf9; }
+.mf { width: 100%; height: 100%; max-height: 720px; overflow: visible; }
+.mf__rule { stroke: rgba(20, 18, 16, 0.06); stroke-width: 1; }
+.mf__today { stroke: rgba(20, 18, 16, 0.3); stroke-width: 1; stroke-dasharray: 2 4; }
+.mf__hist { fill: none; stroke: #141210; stroke-width: 2; stroke-linejoin: round; }
+.mf__fc { fill: none; stroke: #141210; stroke-width: 1.6; stroke-dasharray: 6 6; }
+.mf__fut { fill: none; stroke: rgba(20, 18, 16, 0.22); stroke-width: 1; }
+.mf__fut--lit { stroke: #f39200; stroke-width: 2.4; }
+.mf__x { stroke: rgba(20, 18, 16, 0.45); stroke-width: 1.2; }
+.mf__end, .mf__now { fill: #f39200; }
+.mf__now { fill: #141210; }
+.mf__k { font-family: var(--mono); font-size: 12px; letter-spacing: 0.14em; text-transform: uppercase; fill: rgba(20, 18, 16, 0.6); }
+.mf__k--lit { fill: #b86a00; }
+.mf__k--dim { fill: rgba(20, 18, 16, 0.4); }
+@media (prefers-reduced-motion: no-preference) {
+  .mf__fut { stroke-dasharray: 600; stroke-dashoffset: 600; transition: stroke-dashoffset 1.2s ease-out calc(var(--k) * 45ms); }
+  .band.is-entered .mf__fut, .band:not(.will-enter) .mf__fut { stroke-dashoffset: 0; }
+}
+.ct__k .bar__squares { display: none; }
+
+/* --- where we start: the window runs full width ------------------------------------------ */
+#start .ws-intro { max-width: 720px !important; margin: 0 0 40px !important; text-align: left !important; }
+#start .ws-intro .lead { margin-inline: 0 !important; }
+#start .ws { max-width: none; }
+.ws-step__body, .ws-step__body p, .ws-after, .ws-lead, .ws-ch li { color: rgba(27, 26, 23, 0.9); }
+.ws-step__body, .ws-step__body p { font-size: 14px !important; }
+
+/* --- domains, method: left-aligned heads; the figure larger, unframed -------------------- */
+#domains .dm__head, #domains .blk__head { text-align: left !important; margin-inline: 0 !important; max-width: 760px; }
+#domains .dm__head .lead { margin-inline: 0 !important; }
+#how > .wrap { max-width: 1380px; }
+#how .lp__stage { max-width: 1320px; }
+
+/* --- validation: four numerals down the left ------------------------------------------- */
+.vn { display: grid; grid-template-columns: minmax(0, 5fr) minmax(0, 7fr); gap: clamp(32px, 6vw, 112px); align-items: start; }
+.vn__head .h2 { max-width: 16ch; }
+.vn__head .lead { margin-top: 20px; max-width: 44ch; }
+.vn__list { list-style: none; border-top: 1px solid var(--hair); }
+.vn__r { display: grid; grid-template-columns: clamp(64px, 7vw, 110px) minmax(0, 1fr); gap: 20px; align-items: baseline; padding: clamp(18px, 2.6vh, 28px) 0; border-bottom: 1px solid var(--hair); }
+.vn__n { font-family: var(--serif); font-size: clamp(44px, 4.4vw, 72px); line-height: 0.9; color: var(--ink); }
+.vn__t { font-family: var(--serif); font-size: clamp(21px, 1.7vw, 26px); line-height: 1.25; color: var(--ink); }
+.vx__log { margin-top: clamp(32px, 5vh, 56px); border-top: 0 !important; }
+.vx__f--st dd { padding: 8px 12px; background: #f39200; color: #171007 !important; }
+.vx__f--st i { display: none; }
+@media (max-width: 899px) { .vn { grid-template-columns: minmax(0, 1fr); } }
+
+/* --- the close: the manifesto, two actions ---------------------------------------------- */
+#manifesto .win--feature { border: 0 !important; background: none !important; box-shadow: none !important; }
+#manifesto .win--feature .win__br { display: none; }
+#manifesto .feat { padding: 0 !important; text-align: left; }
+#manifesto .feat__title { max-width: 18ch; font-size: clamp(44px, 4.6vw, 76px) !important; line-height: 1 !important; }
+#manifesto .feat__lede { margin-top: 24px; max-width: 40ch; font-size: 22px !important; line-height: 1.4 !important; color: rgba(20, 18, 16, 0.85); }
+.feat__actions { display: flex; flex-wrap: wrap; align-items: center; gap: 28px; margin-top: 36px; }
+.feat__alt { color: var(--ink); border-bottom: 1px solid var(--amber); padding-bottom: 3px; text-decoration: none; }
+#how > .wrap > .chip { justify-self: center !important; }
+#manifesto .win--feature { padding: 0 !important; margin: 0 !important; max-width: none !important; }
+#manifesto .feat { margin: 0 !important; max-width: 1080px !important; display: block !important; }
+@media (max-width: 759px) {
+  .bar__brand .wm--svg { height: 10.5px !important; }
+  .bar__cta { font-size: 13px !important; }
+  .hero { text-align: left !important; align-items: stretch !important; }
+  .hero .hero__line, .hero .hero__sub { text-align: left; margin-inline: 0 !important; }
+  .hero .hero__actions { justify-content: flex-start !important; }
+}
+@media (max-width: 480px) {
+  .bar .bar__nav { display: none !important; }
+  .bar__brand .wm--svg { height: 11px !important; }
+}

diff --git a/src/visuals/console.ts b/src/visuals/console.ts
@@ -6,12 +6,9 @@
  * the work. Three views: the decision, the model itself, and the record of what
  * was recommended before the outcome and how the model was revised.
  *
- * At first paint decision 1 is shown finished. When the window is 40% in view
- * the run plays once, about fifteen seconds. Only the running (or chosen) step is
- * expanded. Any click on a step, decision or tab stops the run and shows the
- * finished state, and so does scrolling away mid-run: a half-finished state is
- * never shown on return. "Replay the run" plays it again on request. Under
- * reduced motion nothing plays.
+ * Decision 1 is always shown finished, the answer in place. The run, about
+ * fifteen seconds, plays only when the visitor presses "Replay the run". Any
+ * click on a step, decision or tab stops it and shows the finished state.
  */
 
 import { prefersReducedMotion } from '../lib/prefers';
@@ -42,7 +39,6 @@ export function initWorkspace(root: HTMLElement): void {
   let tab: Tab = 'decision';
   let timers: Timer[] = [];
   let running = false;
-  let played = false;
 
   const stepsOf = (id: string): HTMLElement[] => Array.from(root.querySelectorAll<HTMLElement>(`.ws-d[data-d="${id}"] .ws-step`));
 
@@ -95,12 +91,10 @@ export function initWorkspace(root: HTMLElement): void {
 
   const interrupt = (): void => {
     if (running) finish();
-    played = true;
   };
 
   /** Decision 1: the steps run in order, and the answer builds beside them. */
   const play = (): void => {
-    played = true;
     running = true;
     root.classList.add('is-running');
     const steps = stepsOf(first);
@@ -195,23 +189,8 @@ export function initWorkspace(root: HTMLElement): void {
     play();
   });
 
-  // First paint: decision 1, finished.
+  // First paint: decision 1, finished. The run plays only when asked, from
+  // "Replay the run"; under reduced motion the replay control is hidden.
   open(first);
-  if (reduced) {
-    played = true;
-    return;
-  }
-  // Play once at 40% in view; if the visitor scrolls away mid-run, finish at once.
-  const io = new IntersectionObserver(
-    (en) => {
-      const e = en[en.length - 1]!;
-      if (e.intersectionRatio >= 0.4) {
-        if (!played && current === first && tab === 'decision') play();
-      } else if (!e.isIntersecting || e.intersectionRatio < 0.1) {
-        if (running) finish();
-      }
-    },
-    { threshold: [0, 0.1, 0.4] },
-  );
-  io.observe(root);
+  if (reduced) root.querySelector<HTMLElement>('[data-replay]')?.setAttribute('hidden', '');
 }

diff --git a/journal/the-future-should-be-engineered-with-foresight/index.html b/journal/the-future-should-be-engineered-with-foresight/index.html
@@ -69,7 +69,7 @@
                 <h2 class="man__num"><span>IV</span>What we believe</h2><blockquote class="man__pull"><p>We are not building an oracle. We are building machinery for better judgment.</p></blockquote><p>The future cannot be known completely. But it can be understood more deeply, explored more systematically, and shaped more responsibly.</p><p>Every institution keeps a ledger for what happened. Every institution will keep a Foresight Machine for what happens next.</p>
               </section>
               <div class="win man__mission">
-                <p class="win__bar"><span class="bar__squares" aria-hidden="true"><i></i><i></i></span><span>Mission</span><span class="win__lamps" aria-hidden="true"><i class="f"></i><i class="f"></i><i class="o"></i></span></p>
+                
                 <p class="man__mission-t">Our mission is to make foresight infrastructure for the financial and physical world.</p>
               </div>
               <p class="essay__cta"><a class="btn" href="/discuss/">Discuss a decision</a></p>

diff --git a/src/visuals/deck.ts b/src/visuals/deck.ts
@@ -123,7 +123,7 @@ export function initDeck(host: HTMLElement): void {
     const ar = v.w / v.h;
     let w = r.width;
     let h = w / ar;
-    const room = r.height * (narrowQ.matches ? 1.0 : 1.15);
+    const room = r.height;
     if (h > room && room > 40) {
       h = room;
       w = h * ar;

diff --git a/src/styles/index.css b/src/styles/index.css
@@ -11,3 +11,4 @@
 @import './r3.css';
 @import './r4.css';
 @import './r6.css';
+@import './r8.css';
